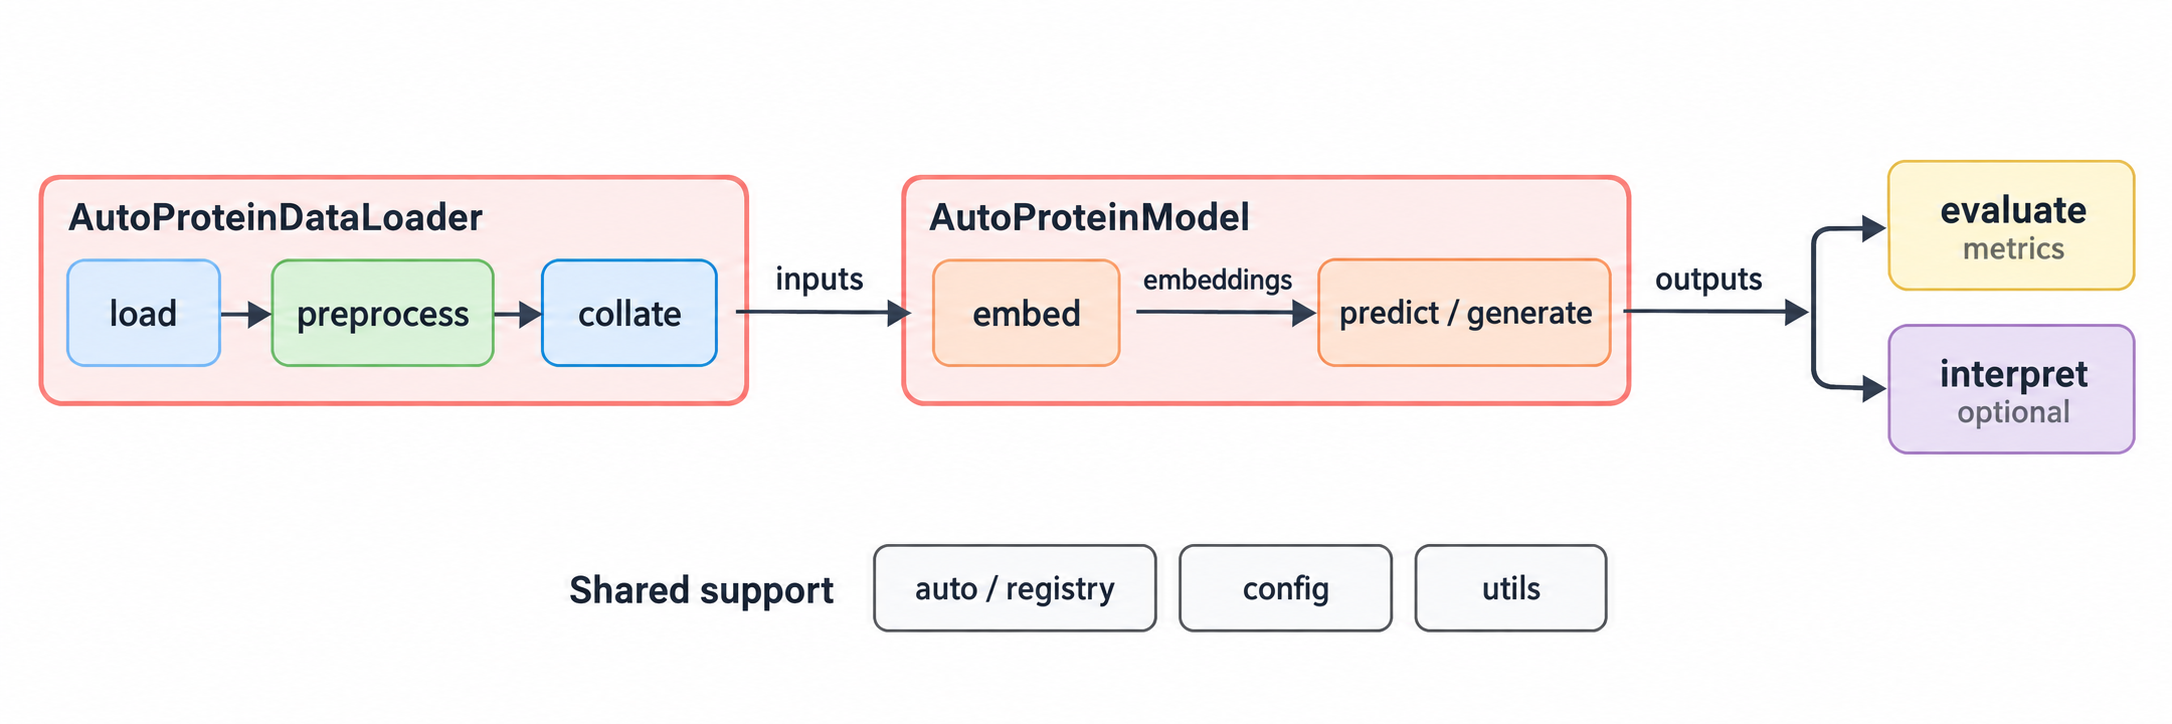
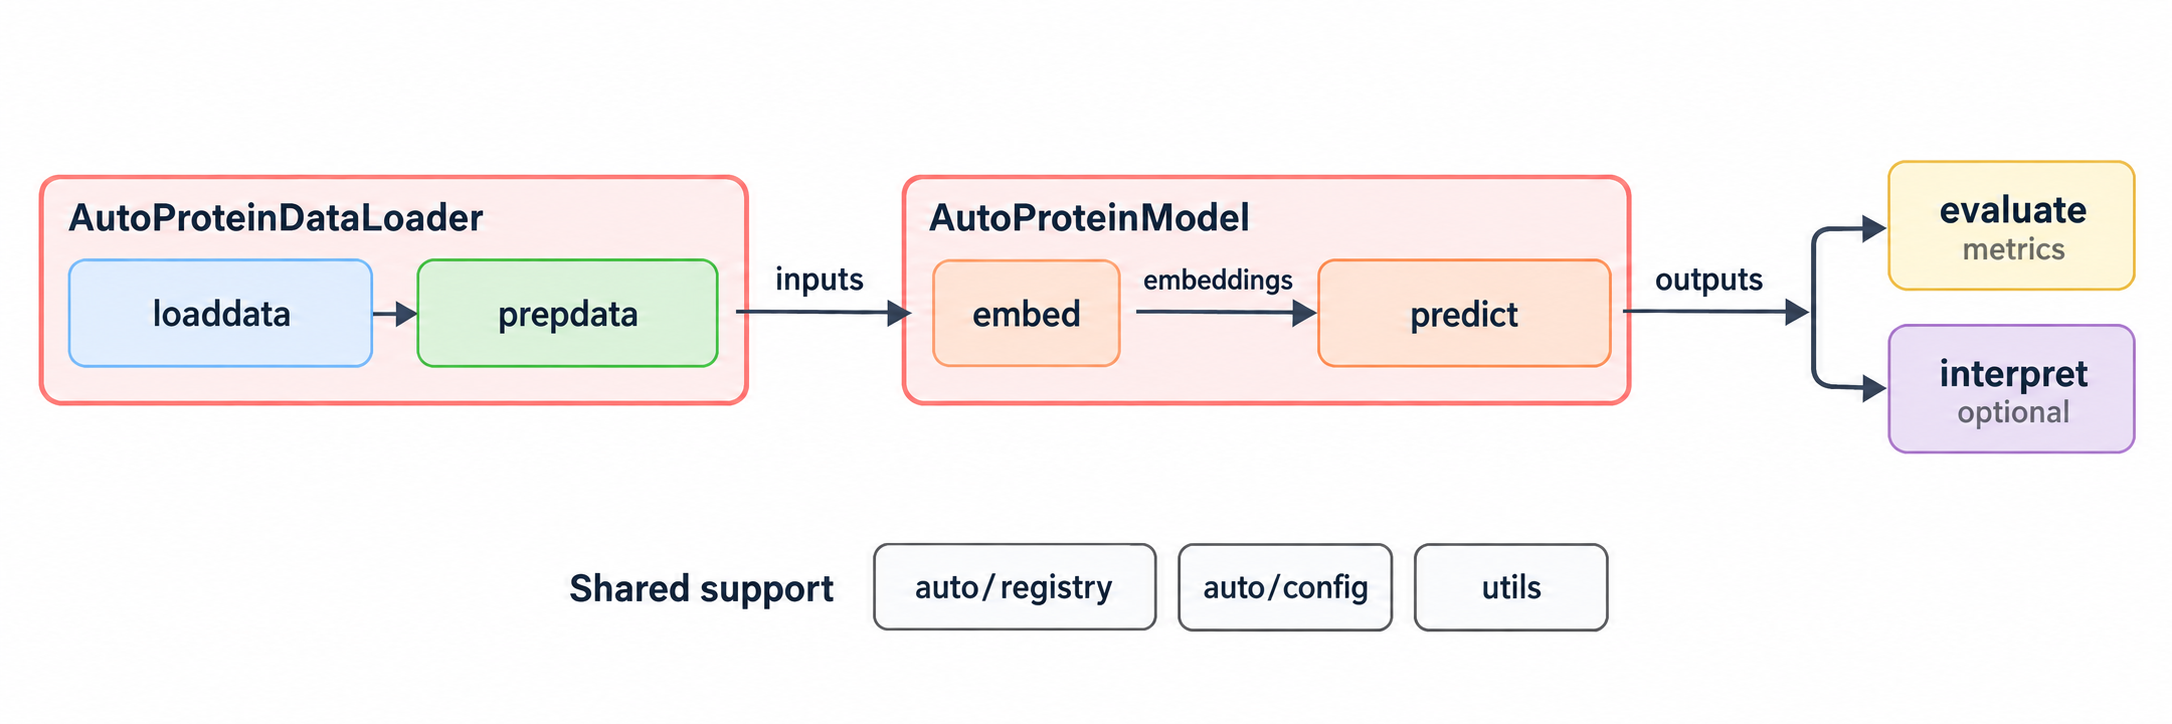
Use actual module names in pipeline documentation

diff --git a/README.md b/README.md
@@ -30,7 +30,7 @@ Data preparation, embedding, prediction or generation, evaluation, and
 interpretation remain explicit steps. Named dictionaries connect them, so
 researchers can inspect intermediate results and replace individual components.
 
-![KaleProtein pipeline: AutoProteinDataLoader loads, preprocesses, and collates data; AutoProteinModel embeds and predicts or generates; outputs branch independently into evaluation and optional interpretation. Auto, registry, config, and utils provide shared support.](docs/assets/kaleprotein-pipeline.png)
+![KaleProtein modules: AutoProteinDataLoader combines loaddata and prepdata; AutoProteinModel combines embed and predict; outputs branch independently into evaluate and optional interpret. Shared support comes from auto/registry, auto/config, and utils.](docs/assets/kaleprotein-pipeline.png)
 
 The data loader owns data preparation and batching. The model owns its
 embedders, predictor or generator, and model weights. Auto APIs select and
@@ -161,19 +161,20 @@ for setup, pretrained weights, and structure-input requirements.
 
 ### Pipeline Components
 
-Each stage has a defined role and can be reused or replaced independently:
+Each module has a defined role and provides reusable pipeline components.
+The `embed` and `predict` modules live under `kaleprotein.model`:
 
-| Stage | Role | Input and output |
+| Module | Role | Input and output |
 | --- | --- | --- |
-| **Data** (`loaddata`) | Read datasets and normalize records, preserving labels, sample IDs, and provenance. | Files or dataset locations -> records. |
-| **Preprocess** (`prepdata`) | Prepare individual samples for the selected model: tokenize sequences, featurize molecules, or construct structural features. | Records -> prepared samples. |
-| **Collate** (`loaddata`) | Group prepared samples into batches, including padding, masks, and graph-index offsets. Feature construction stays in preprocessing. | Prepared samples -> a named batch mapping. |
-| **Embed** (`model.embed`) | Encode input modalities into learned representations. For generative models, encode the conditioning inputs. | `model.embed(**inputs)` -> named embeddings and accompanying metadata. |
-| **Predict / Generate** (`model.predict`) | Apply a task head or fusion module for prediction, or a generator for tasks such as sequence generation. | `model.predict(**embeddings)` or `model.generate(**embeddings)` -> predictions or generated outputs. |
-| **Evaluate** (`evaluate`) | Compute quantitative metrics from model outputs and any labels or references required by the metric. | Prediction or generation mapping -> metric names and values. |
-| **Interpret** (`interpret`) | Explain model outputs using available information such as attention maps or denoising trajectories. | Output mapping with interpretation fields -> explanations. |
+| `loaddata` | Read datasets and normalize records, preserving labels, sample IDs, and provenance. Its collators batch prepared samples with padding, masks, and graph-index offsets. | Files or dataset locations -> records; prepared samples -> named batch mappings. |
+| `prepdata` | Prepare individual samples for the selected model: tokenize sequences, featurize molecules, or construct structural features. | Records -> prepared samples. |
+| `embed` | Encode input modalities into learned representations. For generative models, encode the conditioning inputs. | `model.embed(**inputs)` -> named embeddings and accompanying metadata. |
+| `predict` | Apply a task head or fusion module for prediction, or a generator for tasks such as sequence generation. | `model.predict(**embeddings)` or `model.generate(**embeddings)` -> predictions or generated outputs. |
+| `evaluate` | Compute quantitative metrics from model outputs and any labels or references required by the metric. | Prediction or generation mapping -> metric names and values. |
+| `interpret` | Explain model outputs using available information such as attention maps or denoising trajectories. | Output mapping with interpretation fields -> explanations. |
 
-`AutoProteinDataLoader` combines data loading, preprocessing, and collation.
+`AutoProteinDataLoader` combines `loaddata` and `prepdata`: records are loaded,
+preprocessed, and then collated into batches.
 `AutoProteinModel` combines the embedders and predictor or generator and handles
 checkpoint loading. The model consumes prepared batches; it does not own the
 dataset, preprocessor, or collator.
